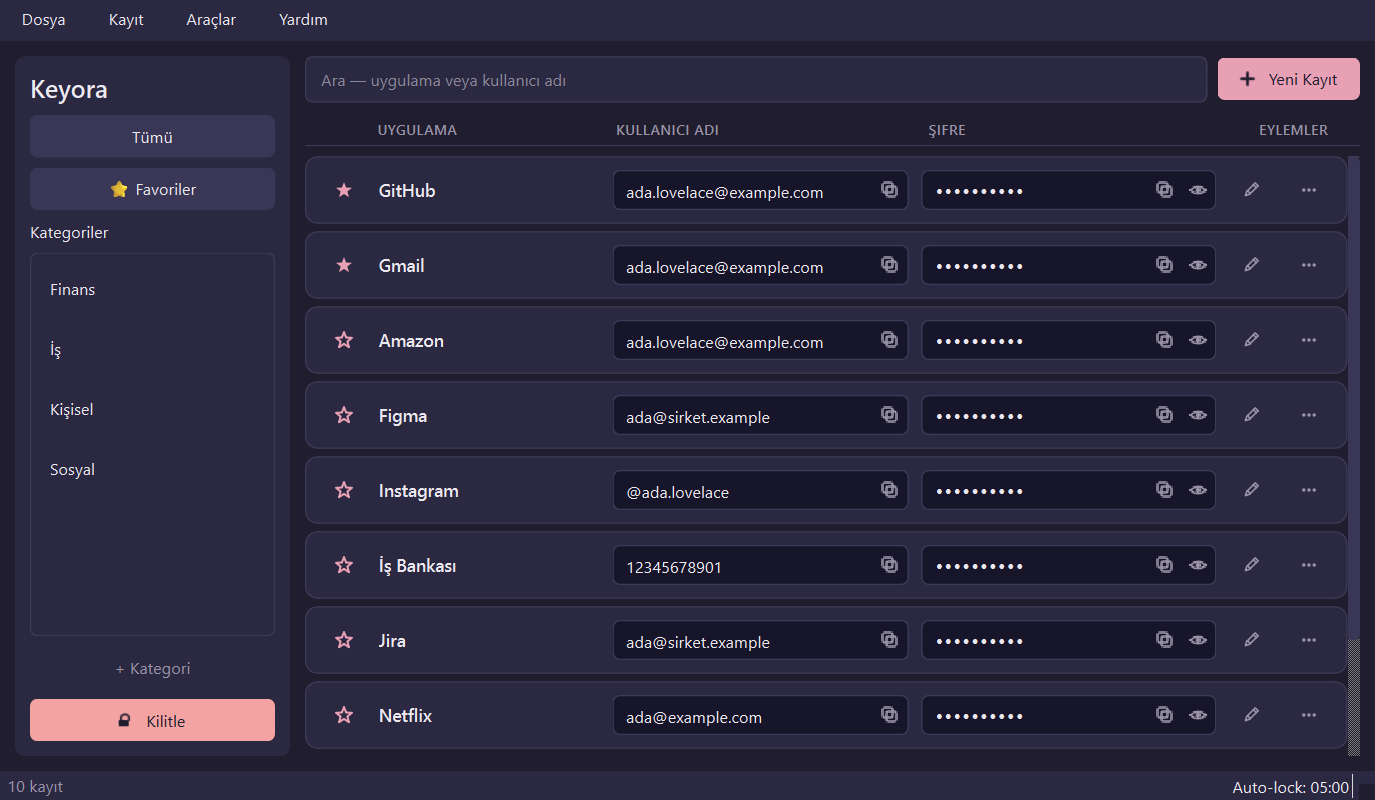
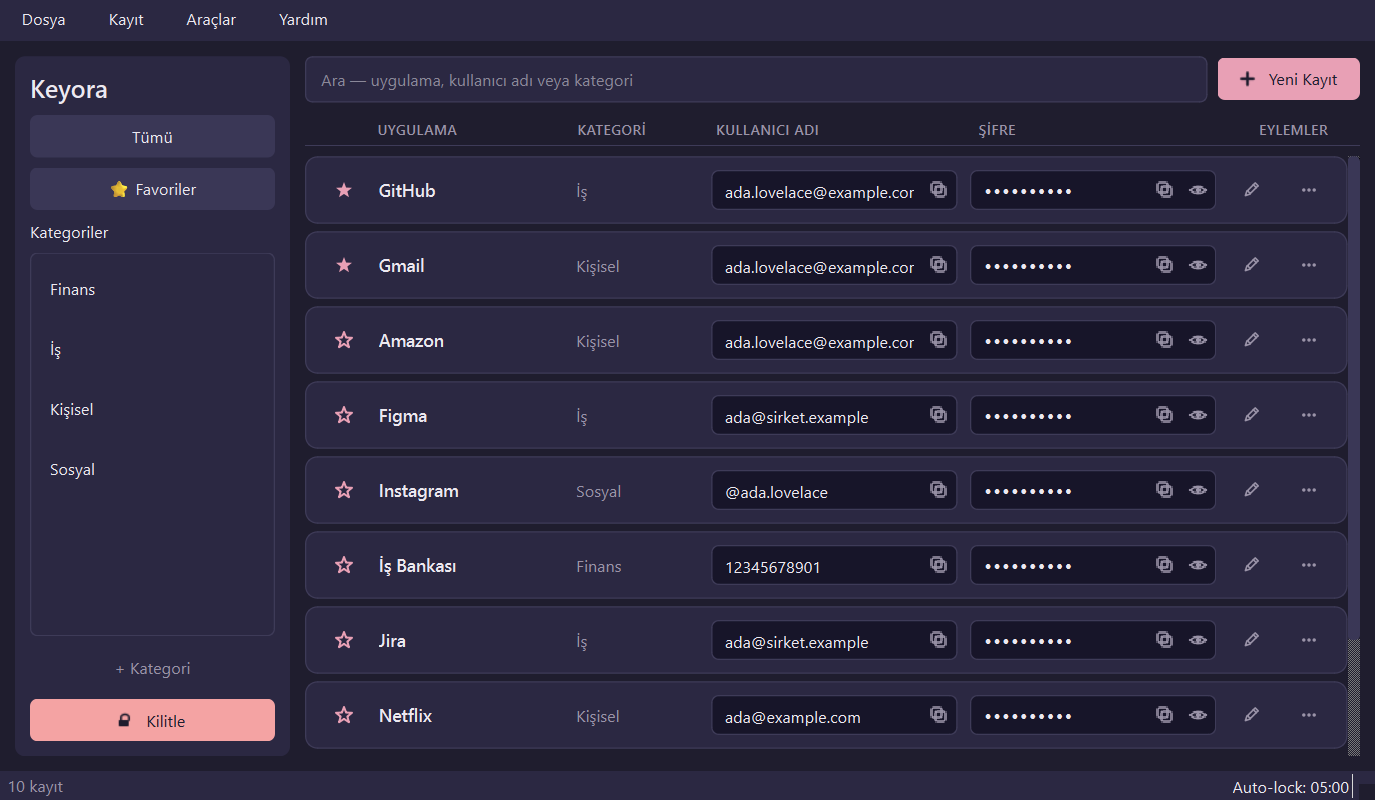
Ürün ekran görüntüsü 1.2.1: kategori sütunu
- main-dark.png sahte kasadan yeniden çekildi; kategori sütunu ve yeni
  arama ipucu görünüyor.
- 1 numaralı nokta arama yazısının sağına, 2 numaralı nokta kayan kopyala
  simgesine taşındı.
- "Anında arama" açıklaması ve resmin alt metni kategoriyi de anıyor (TR + EN).

diff --git a/public/index.html b/public/index.html
@@ -124,7 +124,7 @@
         <div class="bar" aria-hidden="true"><i></i><i></i><i></i><span>Keyora</span></div>
         <div class="shot-wrap">
           <img src="/assets/main-dark.png" width="1375" height="800" loading="lazy"
-               alt="Keyora ana penceresi: solda kategoriler, sağda uygulama adı, kullanıcı adı ve maskeli şifreden oluşan kayıt satırları">
+               alt="Keyora ana penceresi: solda kategoriler, sağda uygulama adı, kategori, kullanıcı adı ve maskeli şifreden oluşan kayıt satırları">
           <span class="pin p1" aria-hidden="true">1</span>
           <span class="pin p2" aria-hidden="true">2</span>
           <span class="pin p3" aria-hidden="true">3</span>
@@ -132,7 +132,7 @@
         </div>
       </figure>
       <ol class="notes reveal">
-        <li><strong>Anında arama</strong>Uygulama ya da kullanıcı adıyla yazarken süzülür; kategoriler ve favoriler solda.</li>
+        <li><strong>Anında arama</strong>Uygulama adı, kullanıcı adı ya da kategoriyle yazarken süzülür; kategoriler ve favoriler solda.</li>
         <li><strong>Tek tıkla kopyala</strong>Kullanıcı adı ya da şifre; kopyalanan 20 saniye sonra panodan silinir, Win+V geçmişine düşmez.</li>
         <li><strong>10 saniyelik göz</strong>Şifreyi görmeniz gerekirse gösterir, 10 saniye sonra yeniden maskeler.</li>
         <li><strong>Tek tuşla kilit</strong>Ctrl+L ya da Kilitle; Windows kilitlenince Keyora da kilitlenir.</li>

diff --git a/public/en/index.html b/public/en/index.html
@@ -124,7 +124,7 @@
         <div class="bar" aria-hidden="true"><i></i><i></i><i></i><span>Keyora</span></div>
         <div class="shot-wrap">
           <img src="/assets/main-dark.png" width="1375" height="800" loading="lazy"
-               alt="Keyora main window: categories on the left, entry rows with app name, username and masked password on the right">
+               alt="Keyora main window: categories on the left, entry rows with app name, category, username and masked password on the right">
           <span class="pin p1" aria-hidden="true">1</span>
           <span class="pin p2" aria-hidden="true">2</span>
           <span class="pin p3" aria-hidden="true">3</span>
@@ -132,7 +132,7 @@
         </div>
       </figure>
       <ol class="notes reveal">
-        <li><strong>Instant search</strong>Filters as you type an app or username; categories and favorites on the left.</li>
+        <li><strong>Instant search</strong>Filters as you type an app name, username or category; categories and favorites on the left.</li>
         <li><strong>One-click copy</strong>Username or password; whatever you copy is wiped from the clipboard after 20 seconds and never lands in Win+V history.</li>
         <li><strong>10-second peek</strong>Shows a password when you need to see it, then masks it again after 10 seconds.</li>
         <li><strong>One-key lock</strong>Ctrl+L or the Lock button; when Windows locks, Keyora locks too.</li>

diff --git a/public/assets/style.css b/public/assets/style.css
@@ -282,7 +282,7 @@ section { position: relative; padding: 120px 0; }
   display: grid; place-items: center; font: 700 13px/1 var(--f-mono); color: #1a1024;
   background: var(--accent); box-shadow: 0 0 0 6px rgba(240, 165, 188, .25), 0 8px 20px rgba(0, 0, 0, .5);
 }
-.pin.p1 { left: 24%; top: 10%; } .pin.p2 { left: 64.6%; top: 23.75%; }
+.pin.p1 { left: 49%; top: 10%; } .pin.p2 { left: 68.2%; top: 23.75%; }
 .pin.p3 { left: 87.1%; top: 23.75%; } .pin.p4 { left: 5.2%; top: 90%; }
 .notes { list-style: none; margin: 36px 0 0; padding: 0; display: grid; grid-template-columns: repeat(4, 1fr); gap: 26px; counter-reset: n; }
 .notes li { counter-increment: n; position: relative; padding-top: 44px; color: var(--muted); font-size: 15.5px; }
